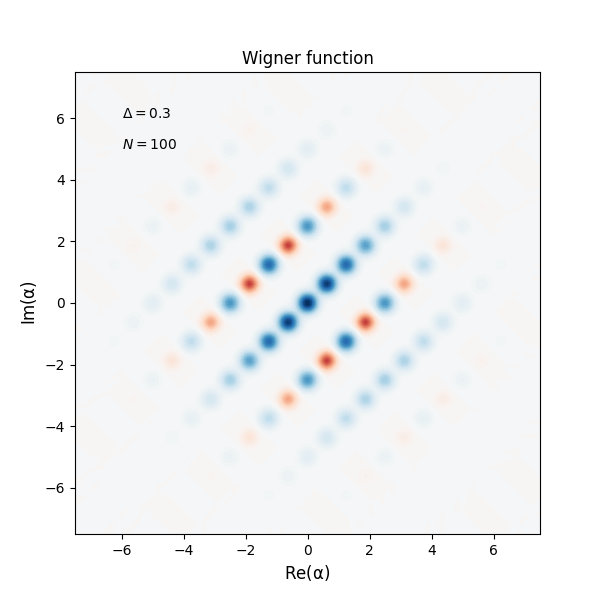
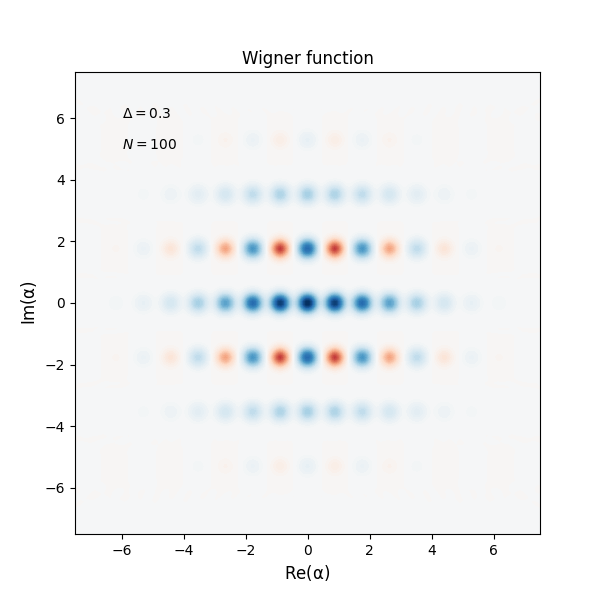
pi/2

Changed region(s): [[0.27, 0.27, 0.75, 0.75], [0.66, 0.33, 0.69, 0.36], [0.39, 0.72, 0.42, 0.75]]

diff --git a/stage_baptiste/projects/Wigner_test_for_finite_GKP/Wigner_test.py b/stage_baptiste/projects/Wigner_test_for_finite_GKP/Wigner_test.py
@@ -32,7 +32,7 @@ qubit = basis(2,0)  # qubit
 lam = 1e-6
 a = destroy(dim)  # produit tensoriel avec qubit
 H = lam*a.dag()*a
-tlist = np.linspace(0,pi/(4*lam),10)
+tlist = np.linspace(0,pi/(2*lam),10)
 res = mesolve(H, osc, tlist, [])
 fig, ax = plot_wigner(res.states[-1])
 ax.text(-6,6,rf"$\Delta = {delta}$")
